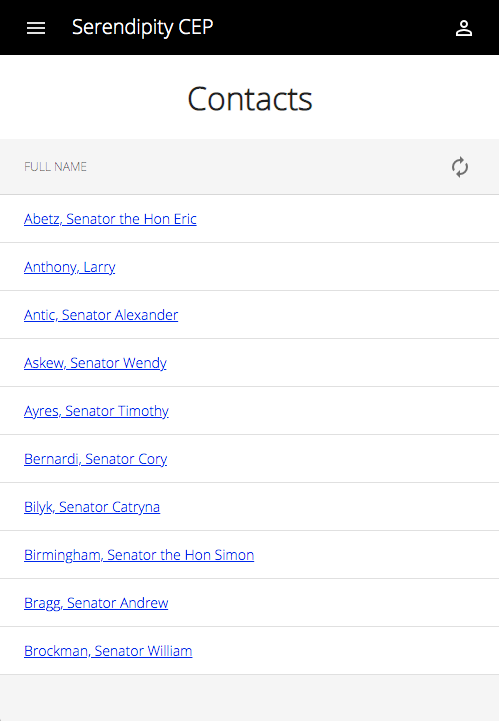
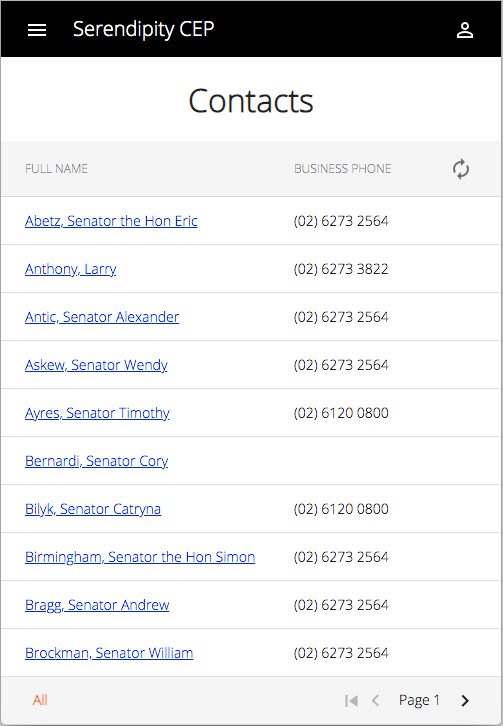
Updated the Sales Collection component

diff --git a/projects/sales/src/lib/components/accounts/accounts.component.html b/projects/sales/src/lib/components/accounts/accounts.component.html
@@ -82,67 +82,17 @@
           <td mat-footer-cell *matFooterCellDef> </td>
         </ng-container>
 
+        <!-- Footer -->
+
         <ng-container matColumnDef="footer">
           <td mat-footer-cell *matFooterCellDef [attr.colspan]="footerColSpan">
-
-            <div class="footer-container" fxHide.xs>
-
-              <button id="{{ footerAllLabel }}" mat-button class="footer-button"
-                      (click)="onClickFilterButton(footerAllLabel)"
-                      [class.active]="selectedFooterItemId === footerAllLabel">
-                {{ footerAllLabel }}
-              </button>
-
-              <button mat-button disabled class="footer-button" fxHide.xs>
-                |
-              </button>
-
-              <div *ngFor="let character of alphabet" fxHide.xs>
-                <button id="{{ character }}" mat-button class="footer-button"
-                        (click)="onClickFilterButton(character)"
-                        [class.active]="selectedFooterItemId === character">
-                  {{ character }}
-                </button>
-              </div>
-
-              <button mat-button disabled class="footer-button" fxHide.xs>
-                |
-              </button>
-
-              <div>
-
-                <button mat-button class="footer-button-first-page"
-                        [disabled]="!canClickFirstPageButton()"
-                        (click)="onClickFirstPageButton()">
-                  <mat-icon>skip_previous</mat-icon>
-                </button>
-
-                <button mat-button class="footer-button-previous-page"
-                        [disabled]="!canClickPreviousPageButton()"
-                        (click)="onClickPreviousPageButton()">
-                  <mat-icon>keyboard_arrow_left</mat-icon>
-                </button>
-
-                <span class="footer-page-number">
-                Page {{ pageNumber }}
-              </span>
-
-                <button mat-button class="footer-button-next-page"
-                        [disabled]="!canClickNextPageButton()"
-                        (click)="onClickNextPageButton()">
-                  <mat-icon>keyboard_arrow_right</mat-icon>
-                </button>
-
-              </div>
-
-            </div>
-
+            <sales-collection-footer [host]="this">
+            </sales-collection-footer>
           </td>
         </ng-container>
 
         <tr mat-header-row *matHeaderRowDef="displayedColumns; sticky: true"></tr>
         <tr mat-row *matRowDef="let row; columns: displayedColumns;"></tr>
-
         <tr mat-footer-row *matFooterRowDef="['footer']; sticky: true"></tr>
 
       </table>
@@ -201,5 +151,63 @@
     {{ getProperty(row, column.name) }}
   </a>
 </ng-container>
+
+        <ng-container matColumnDef="footer">
+          <td mat-footer-cell *matFooterCellDef [attr.colspan]="footerColSpan">
+
+            <div class="footer-container" fxHide.xs>
+
+              <button id="{{ footerAllLabel }}" mat-button class="footer-button"
+                      (click)="onClickFilterButton(footerAllLabel)"
+                      [class.active]="selectedFooterItemId === footerAllLabel">
+                {{ footerAllLabel }}
+              </button>
+
+              <button mat-button disabled class="footer-button" fxHide.xs>
+                |
+              </button>
+
+              <div *ngFor="let character of alphabet" fxHide.xs>
+                <button id="{{ character }}" mat-button class="footer-button"
+                        (click)="onClickFilterButton(character)"
+                        [class.active]="selectedFooterItemId === character">
+                  {{ character }}
+                </button>
+              </div>
+
+              <button mat-button disabled class="footer-button" fxHide.xs>
+                |
+              </button>
+
+              <div>
+
+                <button mat-button class="footer-button-first-page"
+                        [disabled]="!canClickFirstPageButton()"
+                        (click)="onClickFirstPageButton()">
+                  <mat-icon>skip_previous</mat-icon>
+                </button>
+
+                <button mat-button class="footer-button-previous-page"
+                        [disabled]="!canClickPreviousPageButton()"
+                        (click)="onClickPreviousPageButton()">
+                  <mat-icon>keyboard_arrow_left</mat-icon>
+                </button>
+
+                <span class="footer-page-number">
+                Page {{ pageNumber }}
+              </span>
+
+                <button mat-button class="footer-button-next-page"
+                        [disabled]="!canClickNextPageButton()"
+                        (click)="onClickNextPageButton()">
+                  <mat-icon>keyboard_arrow_right</mat-icon>
+                </button>
+
+              </div>
+
+            </div>
+
+          </td>
+        </ng-container>
 
 -->

diff --git a/projects/sales/src/lib/components/activities/activities.component.html b/projects/sales/src/lib/components/activities/activities.component.html
@@ -97,67 +97,17 @@
           <td mat-footer-cell *matFooterCellDef> </td>
         </ng-container>
 
+        <!-- Footer -->
+
         <ng-container matColumnDef="footer">
           <td mat-footer-cell *matFooterCellDef [attr.colspan]="footerColSpan">
-
-            <div class="footer-container" fxHide.xs>
-
-              <button id="{{ footerAllLabel }}" mat-button class="footer-button"
-                      (click)="onClickFilterButton(footerAllLabel)"
-                      [class.active]="selectedFooterItemId === footerAllLabel">
-                {{ footerAllLabel }}
-              </button>
-
-              <button mat-button disabled class="footer-button" fxHide.xs>
-                |
-              </button>
-
-              <div *ngFor="let character of alphabet" fxHide.xs>
-                <button id="{{ character }}" mat-button class="footer-button"
-                        (click)="onClickFilterButton(character)"
-                        [class.active]="selectedFooterItemId === character">
-                  {{ character }}
-                </button>
-              </div>
-
-              <button mat-button disabled class="footer-button" fxHide.xs>
-                |
-              </button>
-
-              <div>
-
-                <button mat-button class="footer-button-first-page"
-                        [disabled]="!canClickFirstPageButton()"
-                        (click)="onClickFirstPageButton()">
-                  <mat-icon>skip_previous</mat-icon>
-                </button>
-
-                <button mat-button class="footer-button-previous-page"
-                        [disabled]="!canClickPreviousPageButton()"
-                        (click)="onClickPreviousPageButton()">
-                  <mat-icon>keyboard_arrow_left</mat-icon>
-                </button>
-
-                <span class="footer-page-number">
-                Page {{ pageNumber }}
-              </span>
-
-                <button mat-button class="footer-button-next-page"
-                        [disabled]="!canClickNextPageButton()"
-                        (click)="onClickNextPageButton()">
-                  <mat-icon>keyboard_arrow_right</mat-icon>
-                </button>
-
-              </div>
-
-            </div>
-
+            <sales-collection-footer [host]="this">
+            </sales-collection-footer>
           </td>
         </ng-container>
 
         <tr mat-header-row *matHeaderRowDef="displayedColumns; sticky: true"></tr>
         <tr mat-row *matRowDef="let row; columns: displayedColumns;"></tr>
-
         <tr mat-footer-row *matFooterRowDef="['footer']; sticky: true"></tr>
 
       </table>

diff --git a/projects/sales/src/lib/models/constants.ts b/projects/sales/src/lib/models/constants.ts
@@ -46,13 +46,13 @@ export const ALPHABET: string[] = [ 'A', 'B', 'C', 'D', 'E', 'F', 'G', 'H', 'I',
   'N', 'O', 'P', 'Q', 'R', 'S', 'T', 'U', 'V', 'W', 'X', 'Y', 'Z' ];
 
 export const ACCOUNTS_COLUMNS_DESKTOP = [ 'name', 'phoneNumber', 'individual.displayName', 'individual.email', 'id' ];
-export const ACCOUNTS_COLUMNS_MOBILE  = [ 'name', 'id' ];
+export const ACCOUNTS_COLUMNS_MOBILE  = [ 'name', 'phoneNumber', 'id' ];
 
 export const ACTIVITIES_COLUMNS_DESKTOP = [ 'type', 'subject', 'regarding', 'priority', 'startDate', 'dueDate', 'id' ];
 export const ACTIVITIES_COLUMNS_MOBILE  = [ 'type', 'subject', 'id' ];
 
 export const CONTACTS_COLUMNS_DESKTOP = [ 'party.displayName', 'email', 'organisation.displayName', 'organisation.phoneNumber', 'id' ];
-export const CONTACTS_COLUMNS_MOBILE  = [ 'party.displayName', 'id' ];
+export const CONTACTS_COLUMNS_MOBILE  = [ 'party.displayName', 'organisation.phoneNumber', 'id' ];
 
 //
 // TODO

diff --git a/projects/sales/src/lib/components/activities/activities.component.ts b/projects/sales/src/lib/components/activities/activities.component.ts
@@ -8,6 +8,9 @@ import { CollectionComponent } from '../collection/collection.component';
 // import { ActivitiesService } from '../../services/activities/activities.service';
 // private entityService: ActivitiesService
 
+// import { EmailService } from '../../services/email/email.service';
+// private emailService: EmailService
+
 import { Activity } from '../../models/activity';
 import { ACTIVITIES_COLUMN_DEFS } from '../../models/column-defs';
 import { ACTIVITIES_COLUMNS_DESKTOP, ACTIVITIES_COLUMNS_MOBILE } from '../../models/constants';
@@ -87,6 +90,3 @@ function pathDataAccessor(item: any, path: string): any {
     return accumulator ? accumulator[key] : undefined;
   }, item);
 }
-
-// import { EmailService } from '../../services/email/email.service';
-// private emailService: EmailService

diff --git a/projects/sales/src/lib/components/collection/footer/collection-footer.component.ts b/projects/sales/src/lib/components/collection/footer/collection-footer.component.ts
@@ -5,7 +5,7 @@ import { LoggerService } from 'utils';
 @Component({
   selector: 'sales-collection-footer',
   template: `
-    <div class="footer-container" fxHide.xs>
+    <div class="footer-container">
 
       <button id="{{ host.footerAllLabel }}" mat-button class="footer-button"
               (click)="host.onClickFilterButton(host.footerAllLabel)"

diff --git a/projects/sales/src/lib/components/collection/collection.component.ts b/projects/sales/src/lib/components/collection/collection.component.ts
@@ -78,7 +78,7 @@ export abstract class CollectionComponent<T> implements OnInit, AfterViewInit, O
 
   }
 
-  protected async loadColumnDefs(configFilename: string) {
+  protected async loadColumnDefs(configFilename: string): Promise<any> {
 
     this.logger.info('CollectionComponent: loadColumnDefs()');
 
